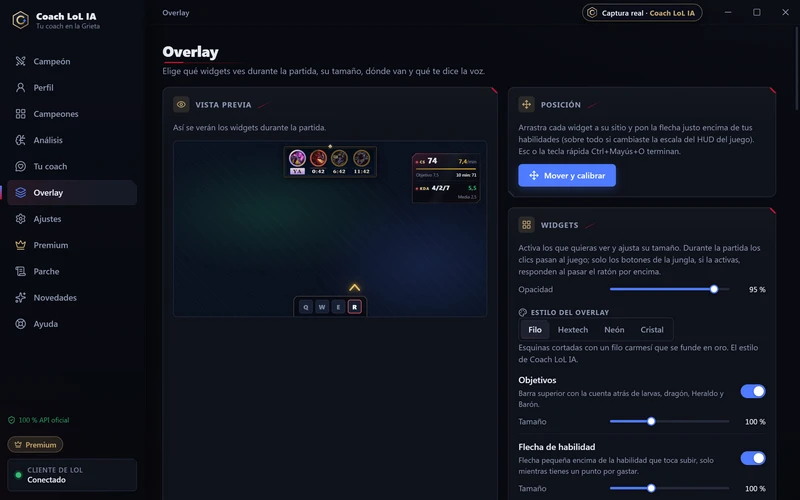
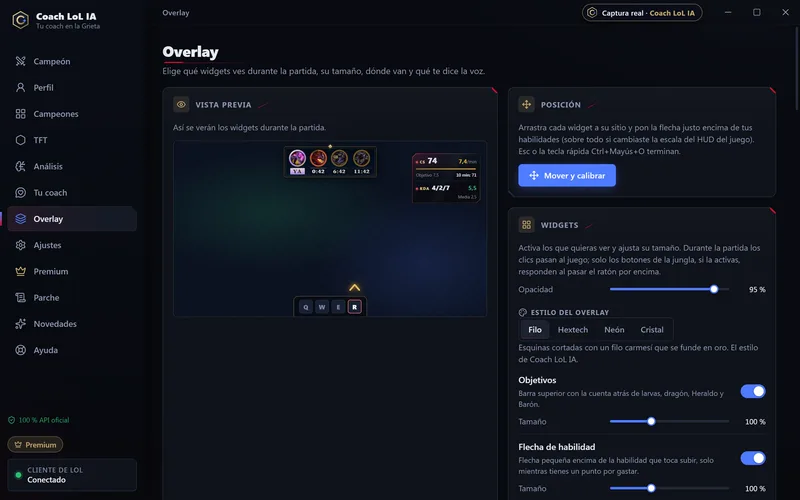
Capturas: abrir cada vista por su id y no por posición
Al añadir TFT a la barra lateral, el índice fijo de capturas-electron.cjs abría la entrada de al lado: «ayuda» salía como Novedades y «overlay-ajustes» como Tu coach. Ahora cada botón lleva data-vista y el script lo busca por id (y falla si no existe). Incluye ayuda y overlay-ajustes regeneradas.

Hecho con ayuda de IA.

diff --git a/app/src/renderer/principal/BarraLateral.tsx b/app/src/renderer/principal/BarraLateral.tsx
@@ -52,6 +52,7 @@ export function BarraLateral({ vista, alCambiar, cliente, plan, premiumHabilitad
           <button
             key={id}
             type="button"
+            data-vista={id}
             className={clases('nav-entrada', id === vista && 'activa', id === 'premium' && 'nav-premium')}
             aria-current={id === vista ? 'page' : undefined}
             onClick={() => alCambiar(id)}
